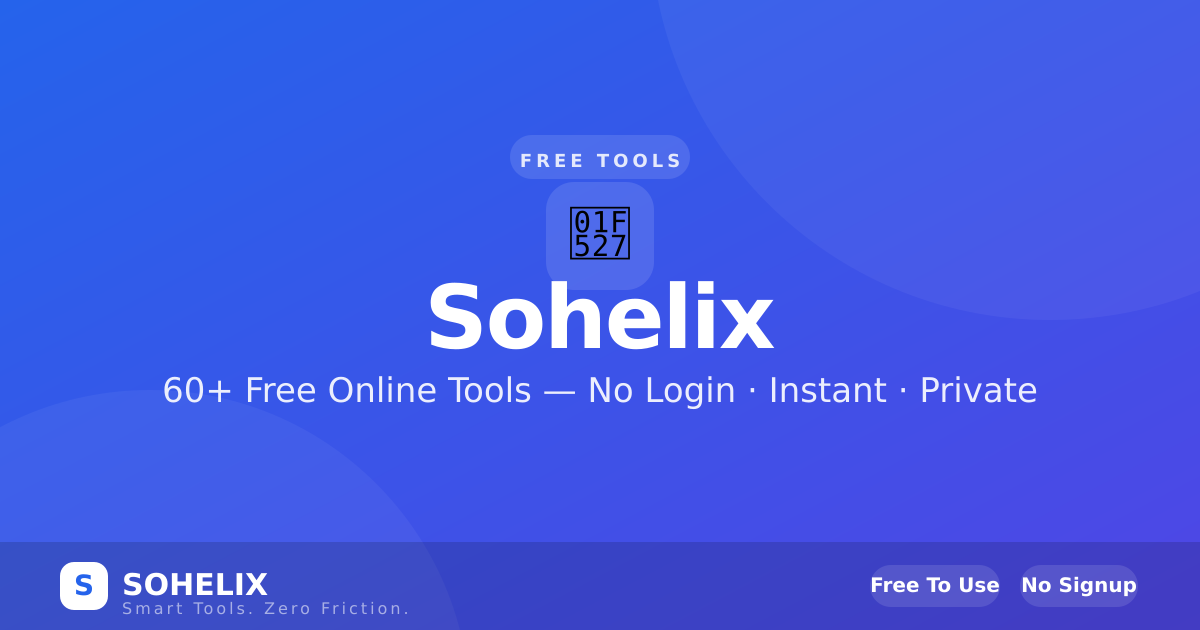
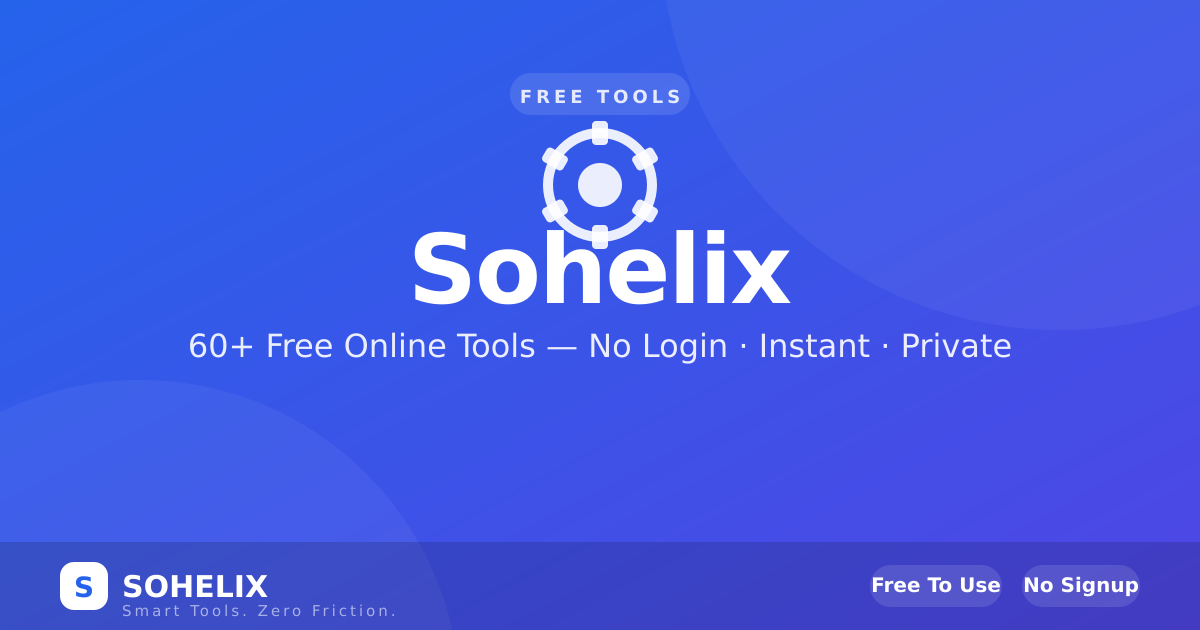
Add fallback image previews to social media shares
Add static Open Graph meta tags to index.html to ensure consistent social media previews, and replace the broken emoji icon in the default preview image with an SVG gear.

Replit-Commit-Author: Agent
Replit-Commit-Session-Id: 528c5da0-7df9-4235-96be-ea3ed8c75c28
Replit-Commit-Checkpoint-Type: full_checkpoint
Replit-Commit-Event-Id: e349eb82-1876-4fa7-8ce9-781053268789
Replit-Commit-Screenshot-Url: https://storage.googleapis.com/screenshot-production-us-central1/dfc206f8-a6cd-4e80-a108-a5972cd8acec/528c5da0-7df9-4235-96be-ea3ed8c75c28/5UAB8d4
Replit-Helium-Checkpoint-Created: true

diff --git a/index.html b/index.html
@@ -6,13 +6,36 @@
     <link rel="icon" type="image/svg+xml" href="/favicon.svg" />
     <link rel="apple-touch-icon" href="/favicon.svg" />
     <link rel="manifest" href="/manifest.json" />
+
     <!--app-head-->
+
+    <!-- Static fallback OG tags for scrapers that skip JS.
+         SSG builds replace the app-head placeholder above with
+         page-specific Helmet tags, which come first and win. -->
+    <title>Sohelix - Free Online Tools for Everyone</title>
+    <meta name="description" content="Access 60+ powerful, free online tools for images, PDFs, SEO, and more. Fast, secure, and 100% private." />
+    <meta name="robots" content="index, follow" />
+
+    <meta property="og:site_name" content="Sohelix" />
+    <meta property="og:type" content="website" />
+    <meta property="og:url" content="https://sohelix.com/" />
+    <meta property="og:title" content="Sohelix - Free Online Tools for Everyone" />
+    <meta property="og:description" content="Access 60+ powerful, free online tools for images, PDFs, SEO, and more. Fast, secure, and 100% private." />
+    <meta property="og:image" content="https://sohelix.com/og/default.png" />
+    <meta property="og:image:width" content="1200" />
+    <meta property="og:image:height" content="630" />
+    <meta property="og:image:type" content="image/png" />
+
+    <meta name="twitter:card" content="summary_large_image" />
+    <meta name="twitter:title" content="Sohelix - Free Online Tools for Everyone" />
+    <meta name="twitter:description" content="Access 60+ powerful, free online tools for images, PDFs, SEO, and more. Fast, secure, and 100% private." />
+    <meta name="twitter:image" content="https://sohelix.com/og/default.png" />
+
     <script>
       if (localStorage.getItem("theme") === "dark") {
         document.documentElement.classList.add("dark");
       }
     </script>
-    <!-- Google Analytics Placeholder -->
     <script async src="https://www.googletagmanager.com/gtag/js?id=G-XXXXXXXXXX"></script>
     <script>
       window.dataLayer = window.dataLayer || [];
@@ -26,4 +49,3 @@
     <script type="module" src="/src/main.tsx"></script>
   </body>
 </html>
-
